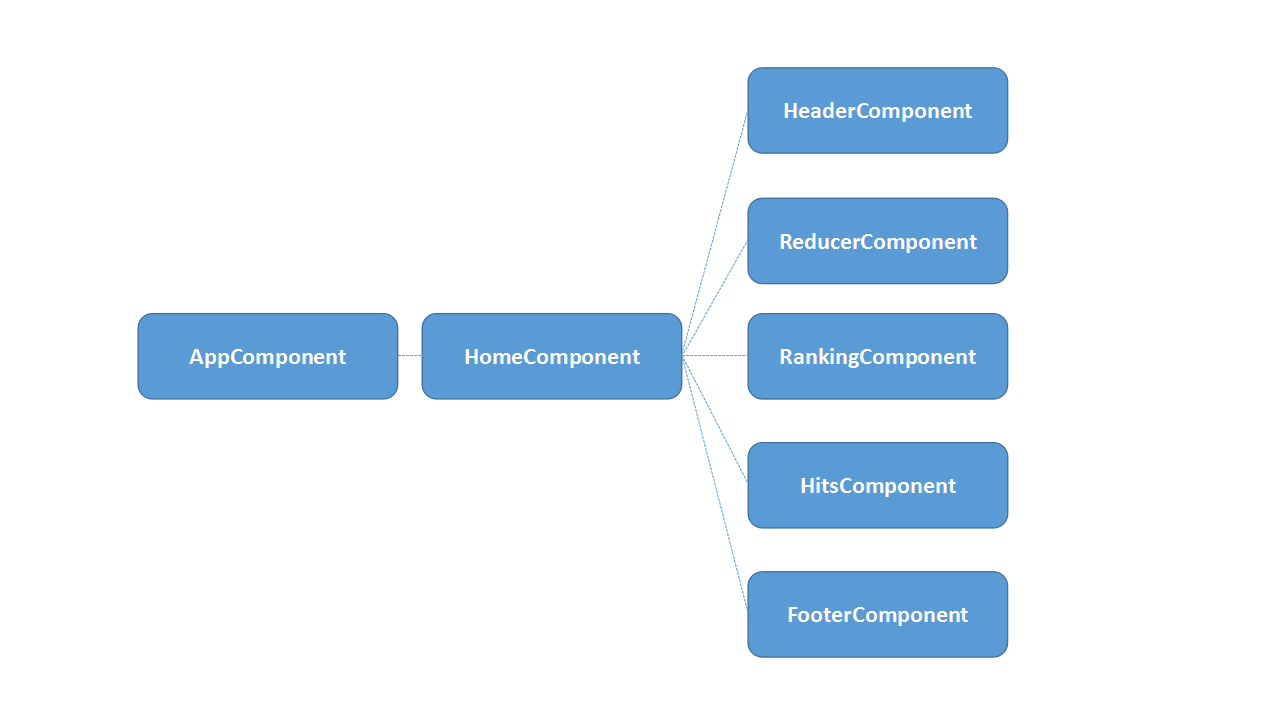
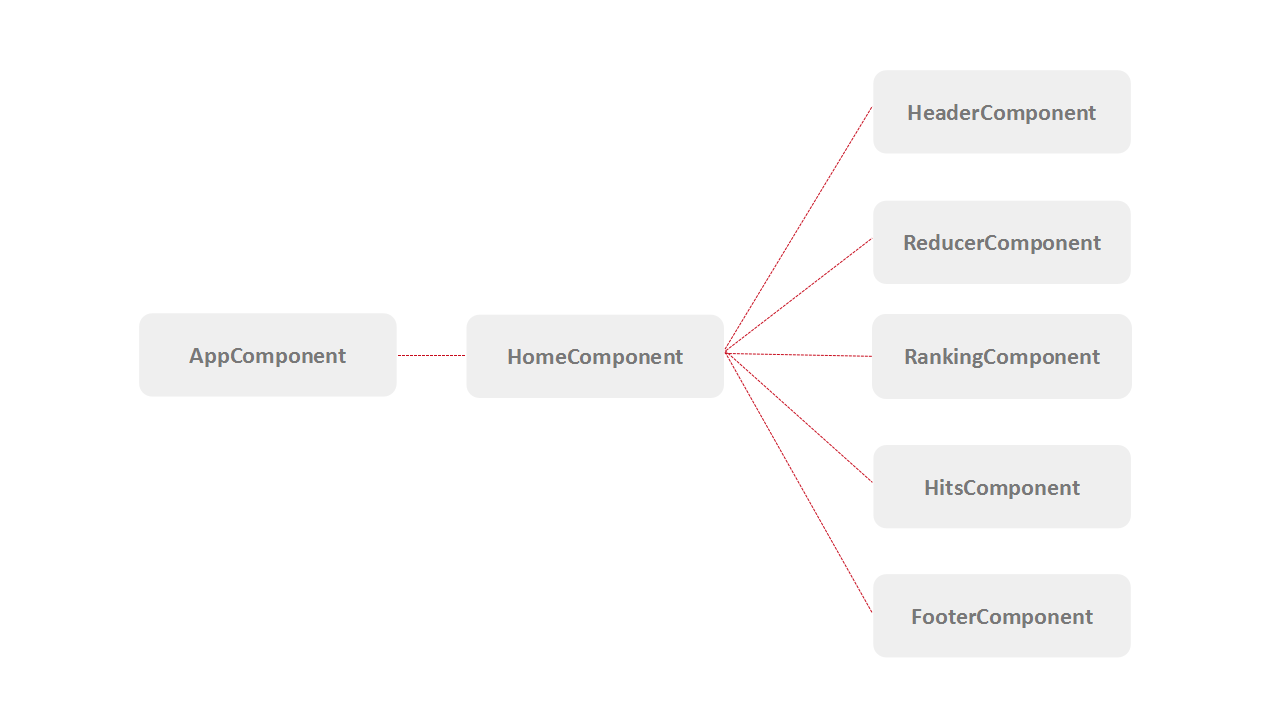
Atualizando imagem e link de referência

diff --git a/project/README.md b/project/README.md
@@ -8,7 +8,7 @@ Desenvolvimento de uma landing page simulando um encurtador de links utilizando:
 
 ## Instruções para execução
 
-No diretório do project, instale os módulos utilizando o comando npm install. Assim que eles forem instalados, é possível rodar o servidor de teste utilizando o comando ng serve e acessá-lo através do link `http://localhost:4200/`.
+No diretório do project, instale os módulos utilizando o comando `npm install`. Assim que eles forem instalados, é possível rodar o servidor de teste utilizando o comando `ng serve` e acessá-lo através do link `http://localhost:4200/`.
 
 **NOTE: NodeJS  versão 6.9.5    NPM     versão 4.2.0**
 
@@ -16,7 +16,7 @@ No diretório do project, instale os módulos utilizando o comando npm install. 
 
 Seguindo os princípios de modularização do Angular2, a landing page foi organizada em diferentes componentes como é possível ver na figura a seguir. 
 
-![componentes](https://github.com/gabrielpcosta18/frontend-intern-challenge/tree/gabriel-costa/Assets/logo-chaordic.png)
+![componentes](../Assets/documentation.png)
 
 ## Estrutura dos Arquivos
 
